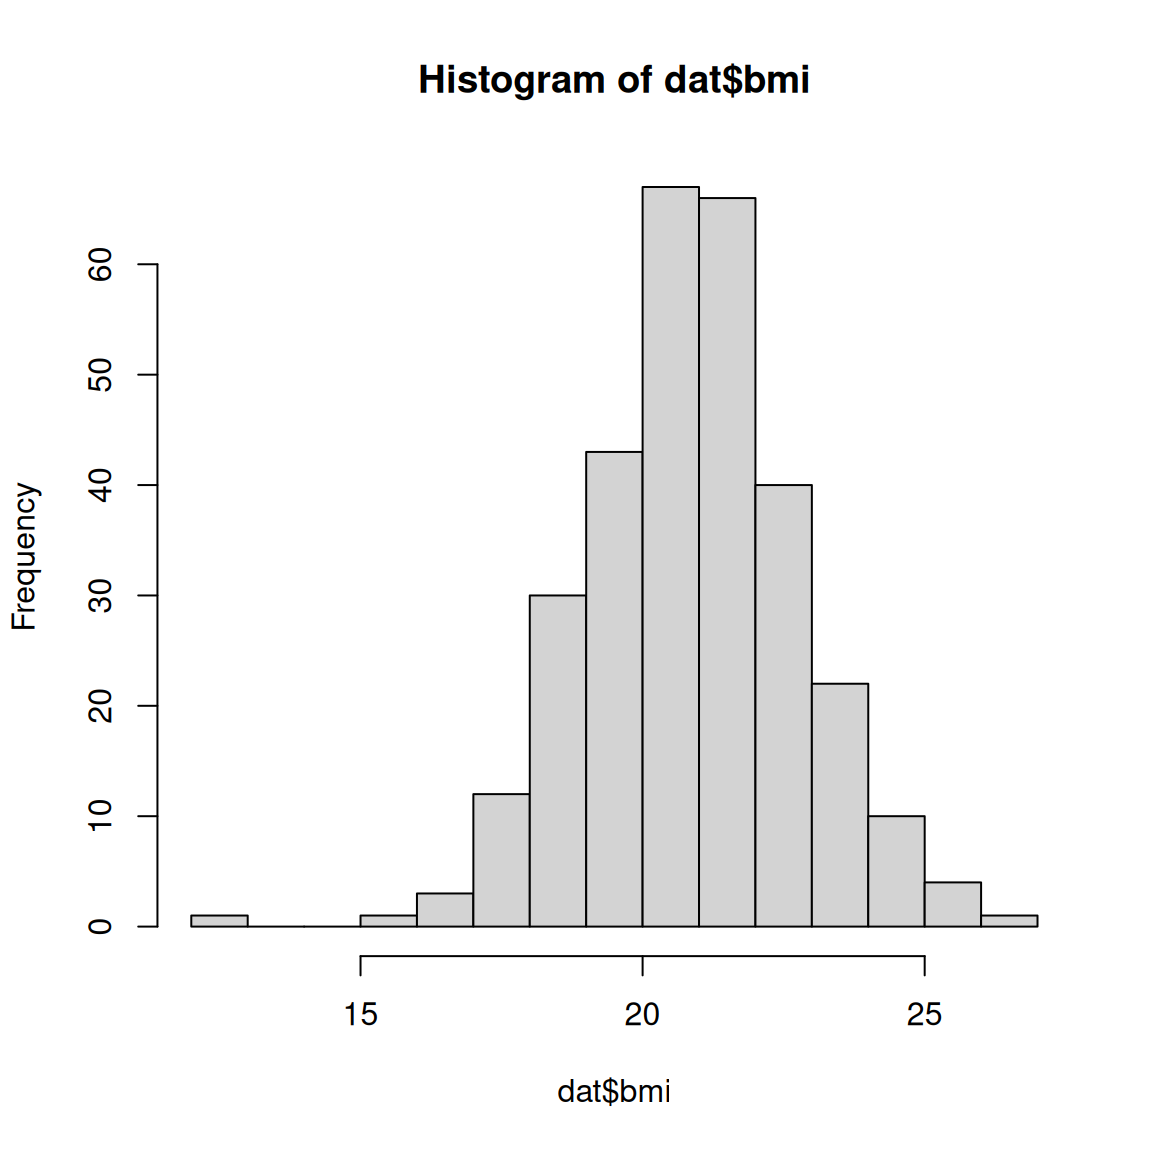
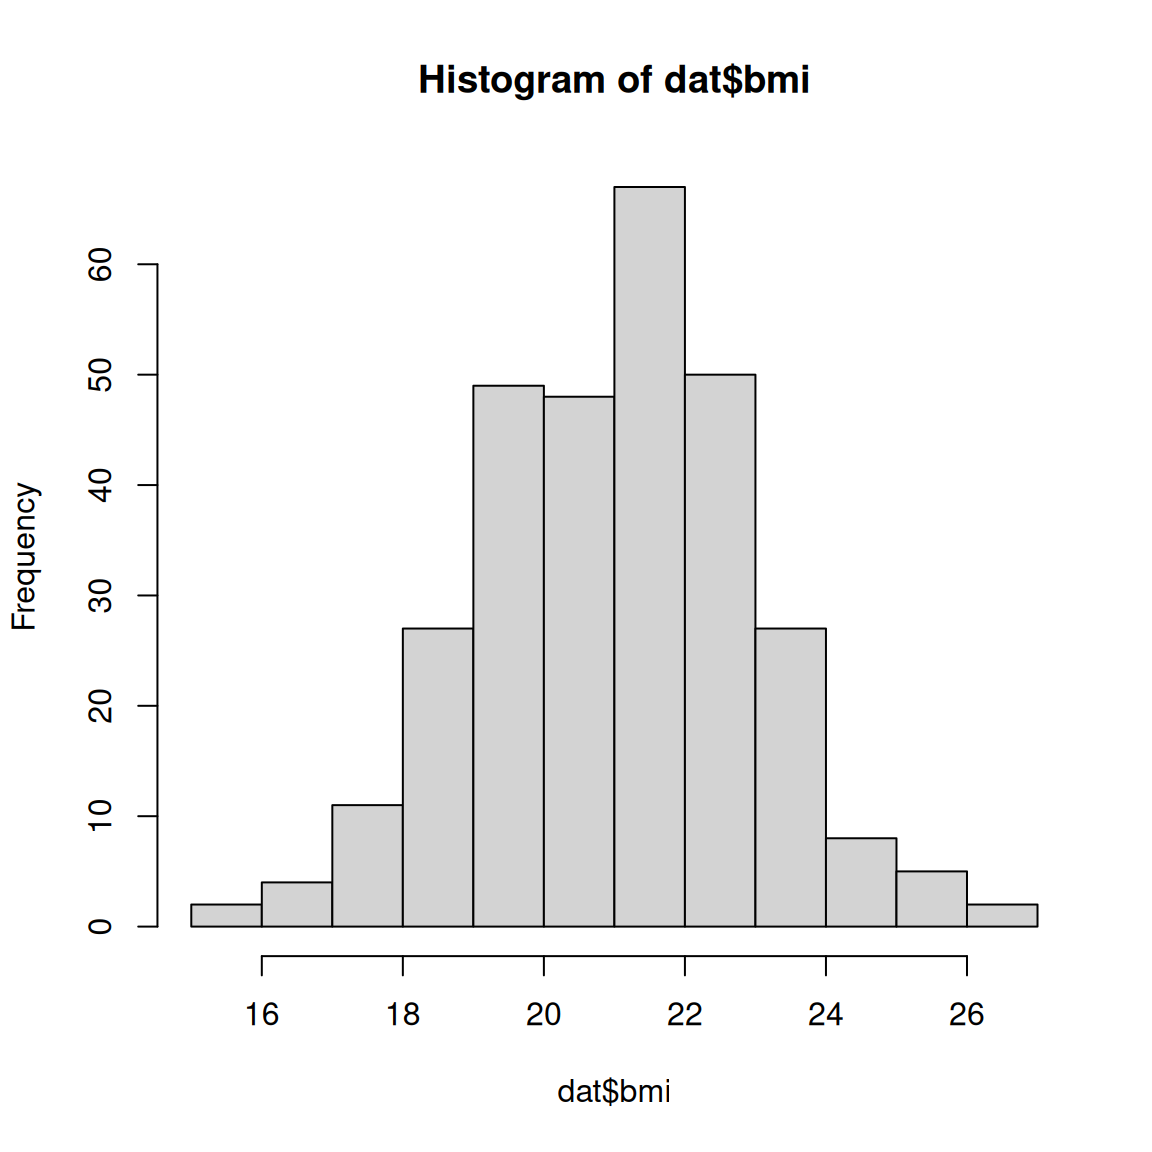
add hypoglycemia slides

diff --git a/docs/statistics/bootstrap/index.html b/docs/statistics/bootstrap/index.html
@@ -199,43 +199,43 @@ Nozomi Niimi
 <tbody>
 <tr class="odd">
 <td style="text-align: right;">1</td>
-<td style="text-align: right;">22.10696</td>
+<td style="text-align: right;">16.49814</td>
 </tr>
 <tr class="even">
 <td style="text-align: right;">2</td>
-<td style="text-align: right;">22.22223</td>
+<td style="text-align: right;">22.27221</td>
 </tr>
 <tr class="odd">
 <td style="text-align: right;">3</td>
-<td style="text-align: right;">20.08348</td>
+<td style="text-align: right;">20.45309</td>
 </tr>
 <tr class="even">
 <td style="text-align: right;">4</td>
-<td style="text-align: right;">20.87714</td>
+<td style="text-align: right;">21.39196</td>
 </tr>
 <tr class="odd">
 <td style="text-align: right;">5</td>
-<td style="text-align: right;">18.29993</td>
+<td style="text-align: right;">17.50208</td>
 </tr>
 <tr class="even">
 <td style="text-align: right;">6</td>
-<td style="text-align: right;">18.60577</td>
+<td style="text-align: right;">19.42014</td>
 </tr>
 <tr class="odd">
 <td style="text-align: right;">7</td>
-<td style="text-align: right;">18.85521</td>
+<td style="text-align: right;">18.48225</td>
 </tr>
 <tr class="even">
 <td style="text-align: right;">8</td>
-<td style="text-align: right;">21.60016</td>
+<td style="text-align: right;">19.61119</td>
 </tr>
 <tr class="odd">
 <td style="text-align: right;">9</td>
-<td style="text-align: right;">22.70758</td>
+<td style="text-align: right;">21.09630</td>
 </tr>
 <tr class="even">
 <td style="text-align: right;">10</td>
-<td style="text-align: right;">19.87856</td>
+<td style="text-align: right;">21.36545</td>
 </tr>
 </tbody>
 </table>
@@ -331,20 +331,20 @@ Nozomi Niimi
 <tbody>
 <tr class="odd">
 <td style="text-align: right;">1</td>
-<td style="text-align: right;">76.16520</td>
-<td style="text-align: right;">192.4350</td>
+<td style="text-align: right;">81.37688</td>
+<td style="text-align: right;">193.7586</td>
 <td style="text-align: left;"></td>
 </tr>
 <tr class="even">
 <td style="text-align: right;">2</td>
-<td style="text-align: right;">75.01079</td>
-<td style="text-align: right;">207.4421</td>
+<td style="text-align: right;">80.10021</td>
+<td style="text-align: right;">183.7292</td>
 <td style="text-align: left;"></td>
 </tr>
 <tr class="odd">
 <td style="text-align: right;">3</td>
-<td style="text-align: right;">70.05877</td>
-<td style="text-align: right;">204.5441</td>
+<td style="text-align: right;">69.27430</td>
+<td style="text-align: right;">190.2912</td>
 <td style="text-align: left;"></td>
 </tr>
 <tr class="even">
